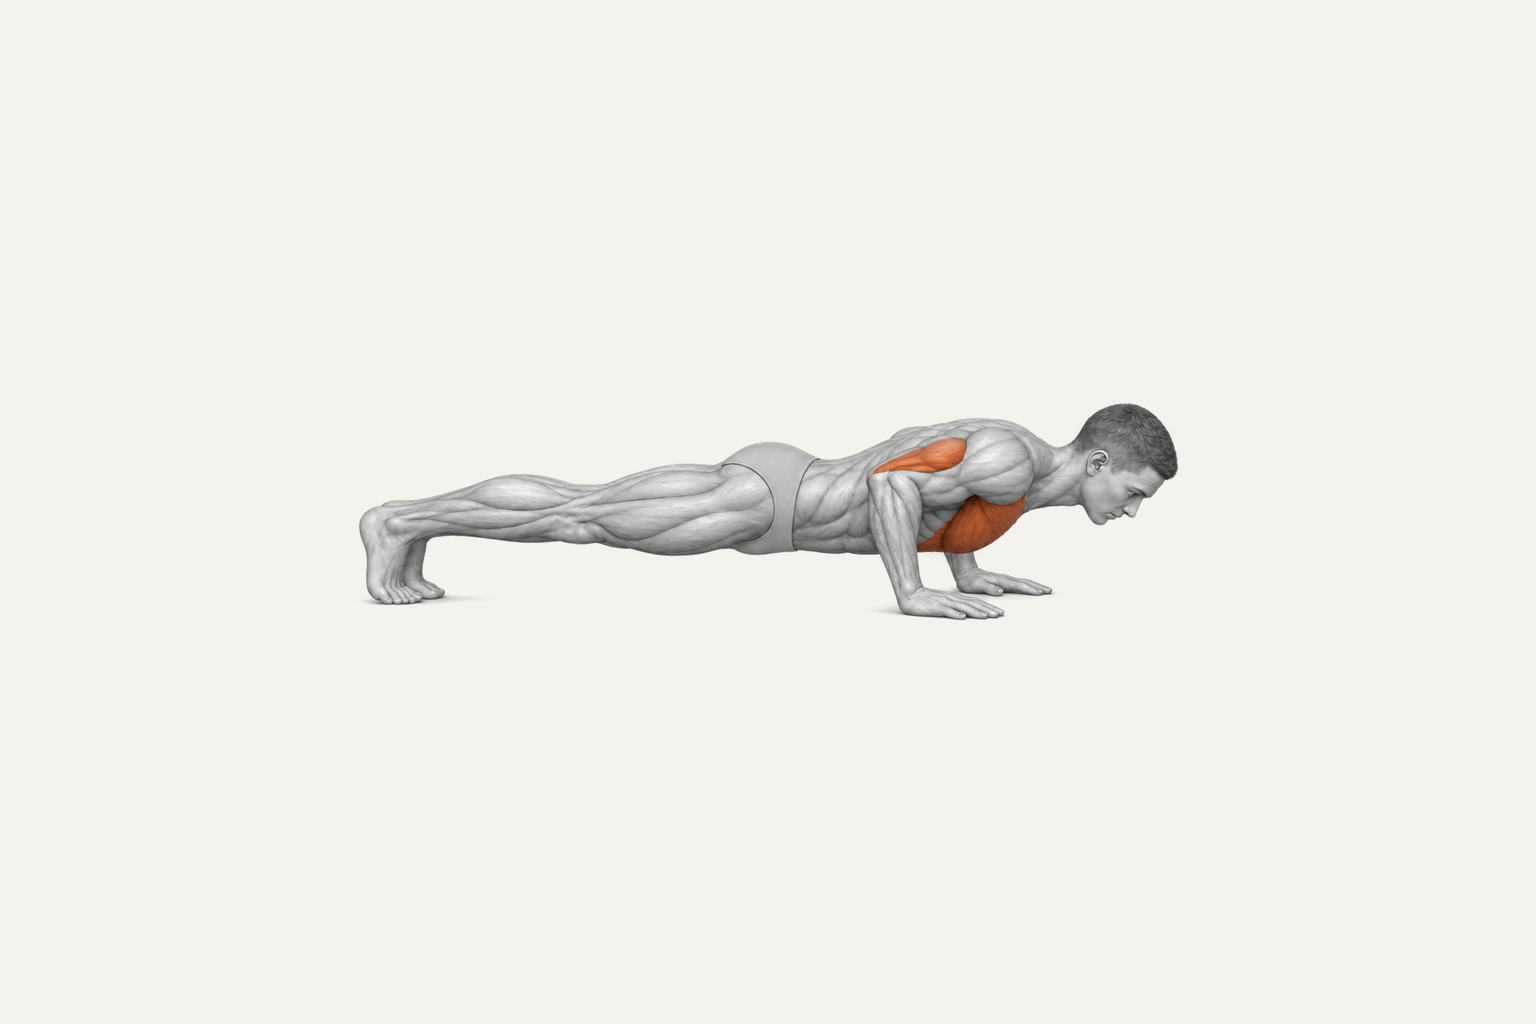
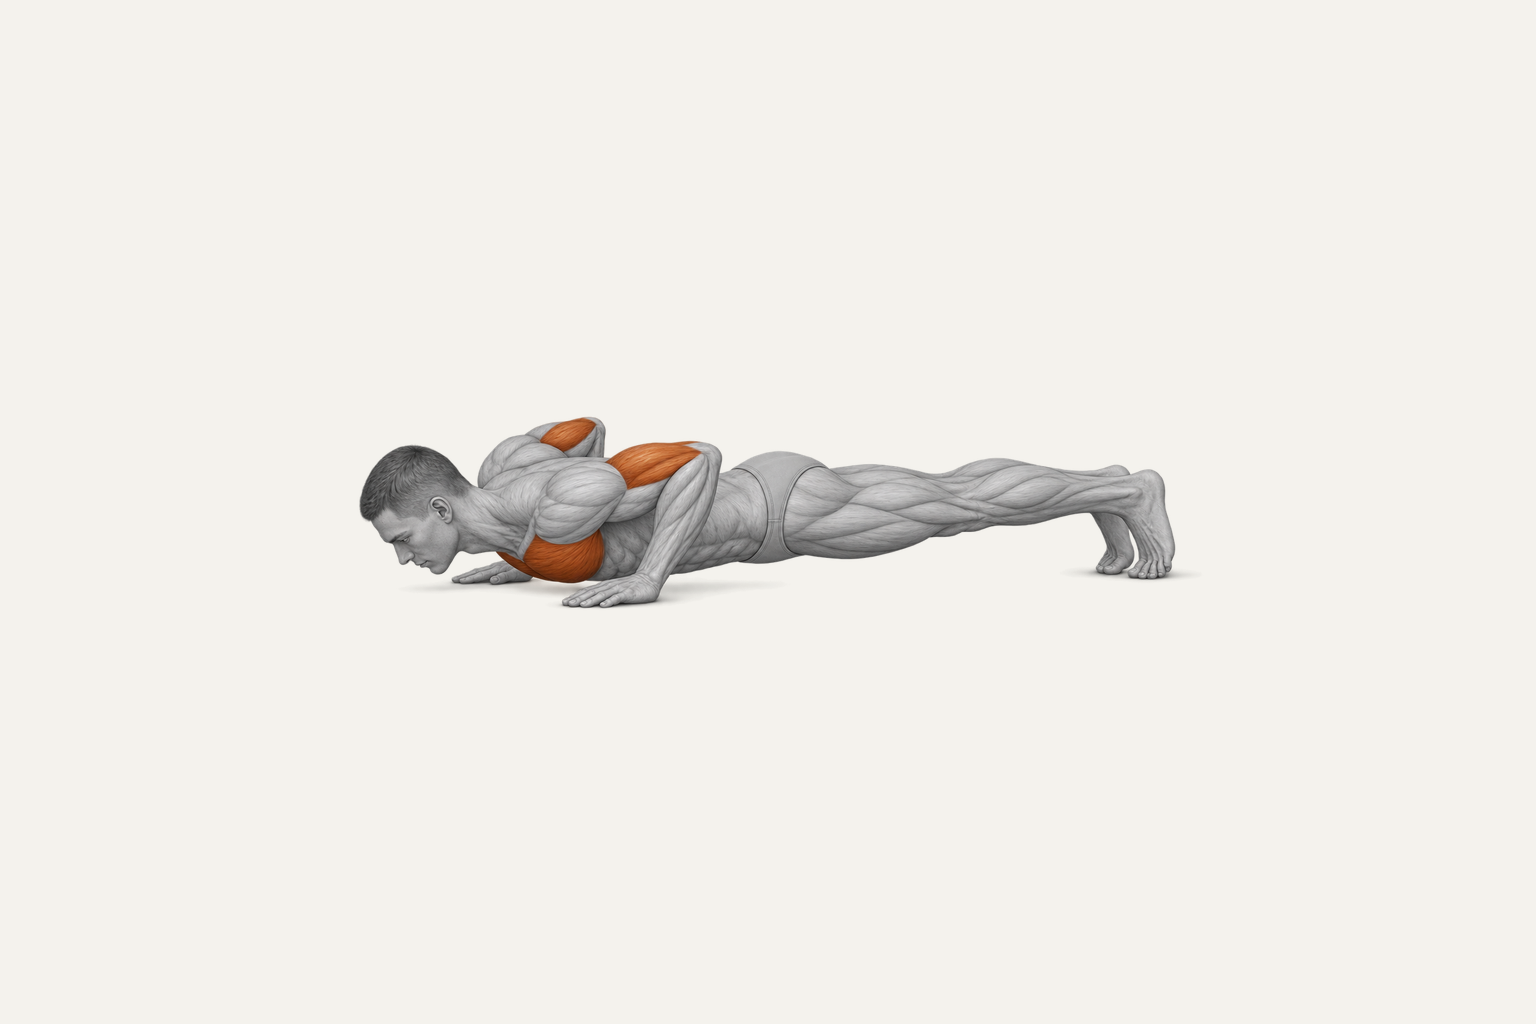
Perfil vira página; sai o cronômetro de descanso; pedido da prancha lateral (3ª)

Changed region(s): [[0.2188, 0.375, 0.7812, 0.625]]

diff --git a/app.js b/app.js
@@ -221,35 +221,6 @@
     return g + '</svg>';
   }
 
-  /* ---------- descanso ---------- */
-  var timer = null;
-  function descanso(seg) {
-    clearInterval(timer);
-    var fim = Date.now() + seg * 1000, el = document.getElementById('dock');
-    if (!el) { el = document.createElement('div'); el.id = 'dock'; document.body.appendChild(el); }
-    function tick() {
-      var r = Math.max(0, Math.round((fim - Date.now()) / 1000));
-      if (r === 0) {
-        clearInterval(timer); bip();
-        el.className = 'dock fim';
-        el.innerHTML = '<div><div class="lbl">Descanso</div><div class="tm">Pode ir</div></div><div class="db"></div><button class="btn ghost" data-pular="1">Ok</button>';
-        setTimeout(function () { if (el.className === 'dock fim') el.remove(); }, 5000);
-        return;
-      }
-      el.className = 'dock';
-      el.innerHTML = '<div><div class="lbl">Descanso</div><div class="tm">' + Math.floor(r / 60) + ':' + String(r % 60).padStart(2, '0') + '</div></div>' +
-        '<div class="db"><span style="width:' + (100 - 100 * r / seg).toFixed(0) + '%"></span></div><button class="btn ghost" data-pular="1">Pular</button>';
-    }
-    tick(); timer = setInterval(tick, 250);
-  }
-  function bip() {
-    try { if (navigator.vibrate) navigator.vibrate([200, 100, 200]); } catch (e) {}
-    try {
-      var c = new (window.AudioContext || window.webkitAudioContext)(), o = c.createOscillator(), g = c.createGain();
-      o.frequency.value = 880; g.gain.value = .08; o.connect(g); g.connect(c.destination); o.start(); o.stop(c.currentTime + .25);
-    } catch (e) {}
-  }
-
   /* ---------- mobilidade guiada (simples: o tempo ele acompanha no relógio) ---------- */
   var G = null;
   function abrirGuia() {
@@ -286,13 +257,8 @@
   function fecharGuia() { G = null; $cam.innerHTML = ''; render(); }
 
   /* ---------- perfil ---------- */
-  function desenharPerfil() {
-    var velha = document.querySelector('.sheet.perfil'), sc = velha ? velha.scrollTop : 0;
-    $cam.innerHTML = '<div class="scrim" data-fecharperfil="1"></div><div class="sheet perfil" role="dialog" aria-modal="true" aria-label="Perfil">' +
-      '<div class="sheet-top"><div class="grab"></div><div class="row" style="justify-content:space-between"><b style="font-size:17px">Perfil</b>' +
-      '<button class="icon" data-fecharperfil="1" aria-label="Fechar">' + IC.x + '</button></div></div>' + telaPerfil() + '</div>';
-    var nova = document.querySelector('.sheet.perfil'); if (nova) nova.scrollTop = sc;
-    var f = document.getElementById('f-np'); if (f) f.focus();
+  function paginaPerfil() {
+    $app.innerHTML = '<div class="back"><button class="icon" data-ir="hoje" aria-label="Voltar">' + IC.voltar + '</button><b>Perfil</b></div>' + telaPerfil();
   }
   function telaPerfil() {
     var h = hoje(), html = '', nomeP = T.titulo.replace(/^Treino d[oa] /, '');
@@ -347,35 +313,30 @@
   }
 
   function render() {
-    if (V.tela === 'orient') telaOrient(); else telaHoje();
-    if (V.perfil) desenharPerfil();
+    if (V.tela === 'orient') telaOrient(); else if (V.tela === 'perfil') paginaPerfil(); else telaHoje();
   }
 
   /* ---------- eventos ---------- */
   document.addEventListener('click', function (e) {
-    var b = e.target.closest('button,[data-fechar],[data-fecharperfil],summary'); if (!b) return;
+    var b = e.target.closest('button,[data-fechar],summary'); if (!b) return;
     var ds = b.dataset;
     if (ds.ir) { V.tela = ds.ir; render(); scrollTo(0, 0); return; }
     if (ds.dia) { V.dia = ds.dia; render(); return; }
     if (ds.mob) { V.abertoMob = !V.abertoMob; render(); return; }
     if (ds.abre) { abrirDetalhe(LISTA[+ds.abre]); return; }
     if (ds.fechar) { $cam.innerHTML = ''; return; }
-    if (ds.perfil) { V.perfil = true; desenharPerfil(); return; }
-    if (ds.fecharperfil) { V.perfil = false; V.editPeso = false; $cam.innerHTML = ''; return; }
+    if (ds.perfil) { V.tela = 'perfil'; render(); scrollTo(0, 0); return; }
     if (ds.mobfeita) {
       var mob = T.mobilidade.blocos[0].itens, todos = mob.every(function (x) { return feito(V.dia, x, TB.numSeries(T, x, V.dia, true)); });
       E.checks[V.dia] = E.checks[V.dia] || {};
       mob.forEach(function (x) { E.checks[V.dia][x.id] = Array(TB.numSeries(T, x, V.dia, true)).fill(!todos); });
       salvar(); render(); return;
     }
-    if (ds.cancelarpeso) { V.editPeso = false; desenharPerfil(); return; }
     if (ds.set) {
-      var p = ds.set.split(':'), it = LISTA[+p[0]], n = TB.numSeries(T, it.ex, V.dia, it.mob), r = marcarSerie(V.dia, it.ex, n, +p[1]);
-      var seg = TB.descansoSeg(it.ex);
-      if (r.depois > r.antes && r.depois < n && seg && V.dia === hoje()) descanso(seg);
+      var p = ds.set.split(':'), it = LISTA[+p[0]];
+      marcarSerie(V.dia, it.ex, TB.numSeries(T, it.ex, V.dia, it.mob), +p[1]);
       render(); return;
     }
-    if (ds.pular) { clearInterval(timer); var dk = document.getElementById('dock'); if (dk) dk.remove(); return; }
     if (ds.concluir) { marcarDia(V.dia, ds.concluir === '1'); render(); return; }
     if (ds.guia) { abrirGuia(); return; }
     if (ds.gfechar) { fecharGuia(); return; }
@@ -383,13 +344,6 @@
     if (ds.g === 'pular') { guiaIr(G.i + 1); return; }
     if (ds.g === 'feito') { guiaFeito(); return; }
     if (ds.toggle) { marcarDia(ds.toggle, !E.dias[ds.toggle]); render(); return; }
-    if (ds.peso) { V.editPeso = true; desenharPerfil(); return; }
-    if (ds.salvarpeso) {
-      var v = lerNum(document.getElementById('f-np').value);
-      if (!(v > 20 && v < 300)) { alert('Confira o peso: use só números, como 80,5.'); return; }
-      var hj = hoje(); E.peso = E.peso.filter(function (x) { return x.d !== hj; }); E.peso.push({ d: hj, kg: v });
-      E.peso.sort(function (a, c) { return a.d < c.d ? -1 : 1; }); V.editPeso = false; salvar(); render(); return;
-    }
     if (ds.enviar) { location.href = 'https://wa.me/' + (T.whatsapp || '') + '?text=' + encodeURIComponent(TB.resumo(T, E, hoje())); return; }
   });
   document.addEventListener('change', function (e) {
@@ -398,7 +352,7 @@
   });
   document.addEventListener('keydown', function (e) {
     if (e.key !== 'Escape' || !$cam.innerHTML) return;
-    if (G) fecharGuia(); else { V.perfil = false; V.editPeso = false; $cam.innerHTML = ''; }
+    if (G) fecharGuia(); else $cam.innerHTML = '';
   });
 
   /* Folha arrastável: puxar para baixo, com o conteúdo no topo, fecha. Vale para toda folha. */
@@ -421,7 +375,7 @@
     sh.style.transition = 'transform .2s ease';
     if (fecha) {
       sh.style.transform = 'translateY(100%)';
-      setTimeout(function () { V.perfil = false; V.editPeso = false; $cam.innerHTML = ''; }, 180);
+      setTimeout(function () { $cam.innerHTML = ''; }, 180);
     } else sh.style.transform = '';
   });
 

diff --git a/img/REFAZER.md b/img/REFAZER.md
@@ -1,35 +1,28 @@
-# Refazer: imagens reprovadas na revisão
+# Refazer: só a prancha lateral (3ª tentativa)
 
 Mesmas regras de `img/BRIEFING.md` (estilo, formato 3:2 1536 × 1024, fundo `#F4F2ED`, sunga cinza-clara, só músculo
-superficial, figura dentro do quadrado central, sem texto). Use `img/stiff-unilateral.png` como modelo de estilo.
-Uma por vez, salvando cada uma assim que ficar pronta, sobrescrevendo o arquivo. Ao terminar, apague a linha
-correspondente de `img/PENDENCIAS.md`.
+superficial, figura dentro do quadrado central, sem texto). Modelo de estilo: `img/stiff-unilateral.png`.
+Salvar em `img/prancha-lateral.png`, sobrescrevendo. Não mexer em nenhuma outra imagem.
 
-## 1. `dorsiflexao.png` — o exercício mudou
+## O que deu errado nas duas tentativas
 
-Mobilização de tornozelo na parede, **sem halter, sem banco**. De frente para uma parede, as duas mãos apoiadas nela
-na altura do peito. Um pé à frente, com a ponta do pé a um palmo (uns 10 cm) da parede; o joelho da frente avança
-até encostar na parede, com o **calcanhar da frente inteiro no chão**. A outra perna fica atrás, esticada, calcanhar
-pode estar levantado. Vista de lado, para o ângulo do tornozelo ficar legível.
-Destaque: panturrilha (gastrocnêmio e sóleo) da perna da frente.
+As duas mostraram o boneco **deitado de lado com a coxa encostada no chão** — isso é descanso, não prancha. Na
+segunda, o antebraço e os joelhos dobrados já estavam certos; falta só o quadril subir.
 
-## 2. `prancha-lateral.png`
+## Como tem de ficar
 
-Prancha lateral de iniciante. Deitado de lado, apoio no **antebraço** (não na mão) com o **cotovelo exatamente
-embaixo do ombro**, antebraço apontando para a frente. **Joelhos dobrados a 90°**, pernas uma sobre a outra, pés para
-trás. **Quadril elevado**: cabeça, tronco, quadril e joelhos formam uma linha reta, sem o quadril cair. Mão de cima na
-cintura. Vista de frente, levemente de cima.
-Destaque: oblíquos do lado de cima.
+Prancha lateral de iniciante (apoio nos joelhos), na posição sustentada:
 
-## 3. `flexao-braco.png` — o gerador bloqueou duas vezes
+- **Só dois pontos tocam o chão**: o antebraço de baixo e a lateral do joelho de baixo. Nada mais encosta no chão:
+  nem quadril, nem coxa, nem tronco.
+- Antebraço no chão apontando para a frente, **cotovelo exatamente embaixo do ombro**, braço de apoio vertical.
+- Joelhos dobrados a 90°, um sobre o outro, canelas e pés para trás do corpo.
+- **Quadril levantado**, uns 20 a 25 cm acima do chão: cabeça, ombro, quadril e joelho formam **uma linha reta
+  diagonal**, subindo do joelho até a cabeça. Entre a coxa e o chão aparece um vão triangular de fundo.
+- Mão de cima apoiada na cintura. Olhar para a frente.
+- **Vista de frente** (a câmera de frente para o peito e a barriga do boneco), um pouco de cima, para o vão entre o
+  quadril e o chão ficar evidente.
+- Destaque: oblíquos do lado de cima.
 
-Descreva como ilustração de livro didático de educação física: "ilustração anatômica didática, boneco anatômico em
-posição de flexão de braço no solo". Mãos no chão um pouco mais abertas que os ombros, corpo reto da cabeça aos
-calcanhares, **cotovelos dobrados a uns 45° do tronco, peito a poucos centímetros do chão**. Vista lateral três-quartos.
-Mesma sunga cinza-clara das outras. Se bloquear de novo, tente vista lateral pura e anote em `PENDENCIAS.md`.
-Destaque: peitoral maior e tríceps.
-
-## 4. `icone.png` — se ainda não fez
-
-Ver o pedido do ícone (3 opções, `icone-a.png`, `icone-b.png`, `icone-c.png`) que já foi enviado em outra conversa; se
-ele já existe na pasta, ignore este item.
+Antes de salvar, confira: existe espaço vazio entre o quadril e o chão? Se a coxa ou o quadril estiverem encostados,
+refaça. Se depois de 3 tentativas não sair, anote em `img/PENDENCIAS.md`.

diff --git a/treino.md b/treino.md
@@ -15,7 +15,7 @@ Início: segunda, 16/11/2026. Troca de bloco prevista para meados de janeiro (~8
 ## Orientações gerais
 
 - **Ordem:** sempre a mobilidade primeiro, depois o treino, na ordem da tela.
-- **Descanso:** o tempo de cada exercício está no card. O cronômetro começa sozinho quando você marca a série.
+- **Descanso:** o tempo de cada exercício está no card. Use o relógio para contar.
 - **Peso certo:** escolha uma carga em que a última repetição seja difícil, mas em que ainda sobrariam 2 ou 3. Não vá até não aguentar mais. A única exceção é a flexão de braço no fim da quarta.
 - **Quando aumentar:** fez o número máximo de repetições em todas as séries? Na semana seguinte, aumente um pouco a carga.
 - **Semanas 1 e 2:** faça uma série a menos em todo exercício que tem 3 ou mais. É o tempo de o corpo se acostumar.

diff --git a/img/PENDENCIAS.md b/img/PENDENCIAS.md
@@ -1,4 +1,3 @@
 # Pendências das imagens de treino
 
-- `flexao-braco.png` — Duas gerações retornaram moderation_blocked. A terceira veio com fundo branco parcialmente opaco até a borda e falhou na exportação para o fundo liso do app. PNG ausente.
 - `curl-up.png` — Após três tentativas, cabeça e ombros ainda se elevam mais que os poucos centímetros do treino. O PNG contém a última versão.
